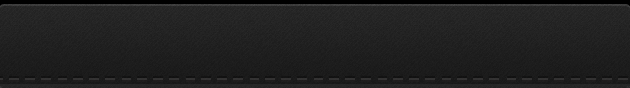
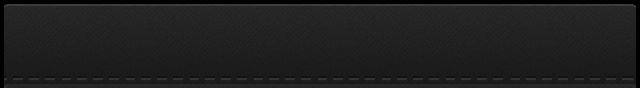
resources and dis. fixes

diff --git a/MultiWii/ViewControllers/MWBaseViewController.m b/MultiWii/ViewControllers/MWBaseViewController.m
@@ -67,7 +67,16 @@
             }
         }
         
-        self.view.backgroundColor = [UIColor colorWithPatternImage:[UIImage imageNamed:@"bg_pattern.png"]];
+        self.view.backgroundColor = [UIColor blackColor];
+        UIView* bgView = [[UIView alloc] initWithFrame:CGRectInset(self.view.bounds, 2, 0)];
+        UIView* blackDim = [[UIView alloc] initWithFrame:bgView.bounds];
+        blackDim.backgroundColor = [UIColor blackColor];
+        blackDim.alpha = 0.;
+        [bgView addSubview:blackDim];
+//        bgView.height -= 47;
+        bgView.backgroundColor = [UIColor colorWithPatternImage:[UIImage imageNamed:@"bg_pattern_100.png"]];
+        [self.view insertSubview:bgView atIndex:0];
+
         
     }
 }

diff --git a/MultiWii/ViewControllers/Connect/MWConnectViewController.m b/MultiWii/ViewControllers/Connect/MWConnectViewController.m
@@ -195,7 +195,13 @@
 -(void)viewWillAppear:(BOOL)animated
 {
     [super viewWillAppear:animated];
-    [[MWBluetoothManager sharedInstance] startScan];
+    double delayInSeconds = 0.1; //hack? or
+    dispatch_time_t popTime = dispatch_time(DISPATCH_TIME_NOW, (int64_t)(delayInSeconds * NSEC_PER_SEC));
+    dispatch_after(popTime, dispatch_get_main_queue(), ^(void){
+        [self scanButtonTapped:nil];
+    });
+
+
 }
 
 -(void)viewWillDisappear:(BOOL)animated

diff --git a/MultiWii/Views/Cells/AUXCell/MWAUXCheckBoxCell.m b/MultiWii/Views/Cells/AUXCell/MWAUXCheckBoxCell.m
@@ -17,7 +17,7 @@
     self.titleLabel.textColor = [UIColor colorWithPatternImage:[UIImage imageNamed:@"gradient_title-text@2x"]];
 
     
-    self.backgroundImageView.backgroundColor = [UIColor colorWithPatternImage:[UIImage imageNamed:@"bg_pattern.png"]];
+    self.backgroundImageView.backgroundColor = [UIColor colorWithPatternImage:[UIImage imageNamed:@"bg_pattern_100.png"]];
     self.backgroundImageView.image = [UIImage imageNamed:@"cell@2x"];
 }
 

diff --git a/MultiWii/Views/Header3LabelView/MWHeader3LabelView.m b/MultiWii/Views/Header3LabelView/MWHeader3LabelView.m
@@ -44,7 +44,7 @@
 -(void) makeInit
 {
     [self calculateSizes];
-    self.backgroundColor = [UIColor colorWithPatternImage:[UIImage imageNamed:@"bg_pattern.png"]];
+    self.backgroundColor = [UIColor colorWithPatternImage:[UIImage imageNamed:@"bg_pattern_100.png"]];
     
     NSMutableArray* labels = [NSMutableArray arrayWithCapacity:3];
     NSArray* defaultTitles = @[@"LOW", @"MIDDLE", @"HIGH"];
